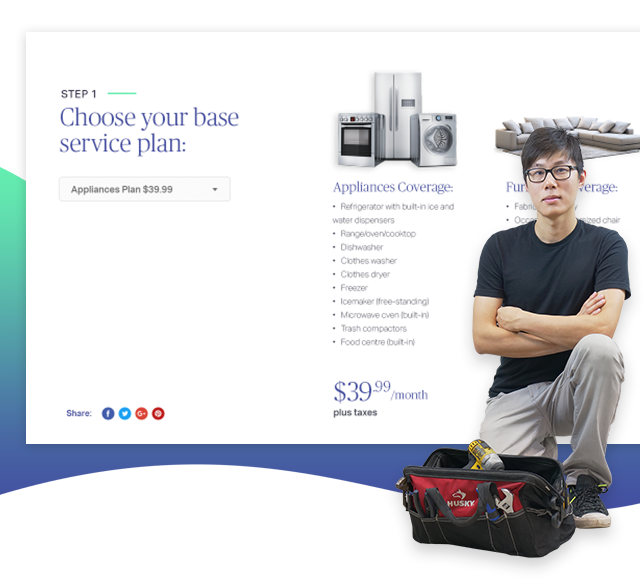
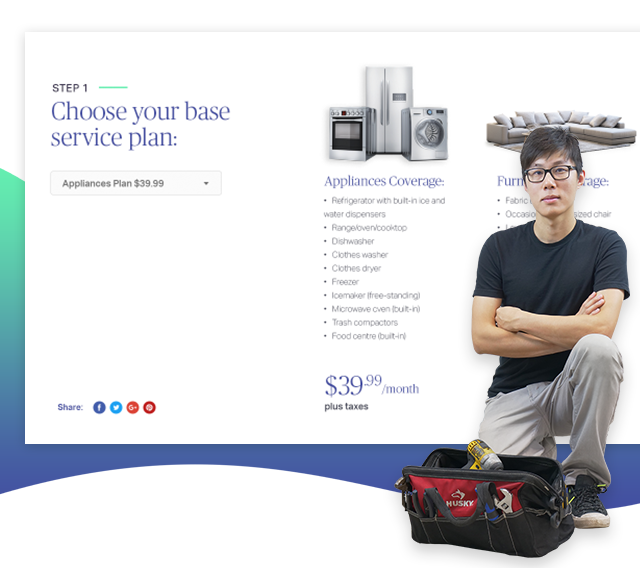
V06 - QA Service Parent Page - Updated text sizing on service parent components - Updated sizing on header - Fixed images - Fixed the crazy loader gif

diff --git a/src/components/modules/featured-content.vue b/src/components/modules/featured-content.vue
@@ -83,6 +83,14 @@ import CircleBarDecoration     from '../shared/circle-bar-decoration.vue';
     }
   }
 
+  p {
+    @media #{$laptop-up} {
+      font-size: 16px;
+      line-height: 190%;
+      font-weight: 500;
+    }
+  }
+
   // Media portion of the split
   // Before pseudo element controls the background green lines
   // They are merely decorative and get overriden often
@@ -154,7 +162,8 @@ import CircleBarDecoration     from '../shared/circle-bar-decoration.vue';
     }
 
     .mdev-service-desc {
-      width: 55%;
+      width: 45%;
+
 
       @media #{$portrait} {
         width: 100%;
@@ -164,6 +173,8 @@ import CircleBarDecoration     from '../shared/circle-bar-decoration.vue';
     .mdev-service-topics {
       width: 35%;
       margin-top: 0;
+      margin-left: 5%;
+      margin-right: 5%;
 
       @media #{$portrait} {
         width: 100%;
@@ -230,8 +241,8 @@ import CircleBarDecoration     from '../shared/circle-bar-decoration.vue';
 
       @media #{$portrait} {
         left: 10%;
-        top: -50px;
-        bottom: -50px;
+        top: -25px;
+        bottom: -25px;
         right: 10%;
       }
 

diff --git a/src/components/services/service--all.vue b/src/components/services/service--all.vue
@@ -9,7 +9,7 @@
           <div class="mdev-center">
             <h1
               data-intro-heading
-              class="u-c-primary a-blur-in">
+              class="mdev-serv-intro u-c-primary a-blur-in">
               {{ $t('servicepage.intro.heading') }}
             </h1>
             <p
@@ -209,9 +209,17 @@ export default{
     padding: 0 12%;
   }
 
-  @media #{$laptop-up} {
-    width: 60%;
+  @media #{$laptop-only} {
+    padding: 0 14%;
+  }
+
+  @media #{$desktop-up} {
+    width: 55%;
     padding: 0;
+  }
+
+  .mdev-serv-intro {
+    line-height: 120%;
   }
 }
 
@@ -227,7 +235,7 @@ export default{
   }
 
   @media #{$phone-only} {
-    padding-top: 125%;
+    padding-top: 140%;
   }
 
   @media #{$tablet-lnd-only} {
@@ -235,7 +243,7 @@ export default{
   }
 
   @media #{$tablet-prt-only} {
-    padding-top: 95%;
+    padding-top: 80%;
   }
 }
 // Line Starting Positions

diff --git a/src/assets/styles/scaffolding.scss b/src/assets/styles/scaffolding.scss
@@ -100,14 +100,14 @@
     margin-bottom: 100px;
   }
 
-  @media #{$tablet-prt-only} {
-    margin-top: 50px;
-    margin-bottom: 50px;
-  }
-
   @media #{$phone-only} {
     margin-top: 25px;
     margin-bottom: 25px;
+  }
+
+  @media #{$tablet-prt-only} {
+    margin-top: 75px;
+    margin-bottom: 75px;
   }
 }
 
@@ -396,7 +396,7 @@ $md: 75px;
     font-size: 20px;
 
     @media #{$phone-only} {
-      font-size: 10px;
+      font-size: 20px;
     }
   }
 

diff --git a/src/components/shared/base-form.vue b/src/components/shared/base-form.vue
@@ -242,7 +242,14 @@ export default{
 }
 
 textarea {
-  min-height: 10vh;
+
+  @media #{$laptop-only} {
+    min-height: 3vh;
+  }
+
+  @media #{$desktop-only} {
+    min-height: 16vh;
+  }
 
   @media #{$portrait} {
     min-height: 5vh;

diff --git a/src/assets/styles/typography.scss b/src/assets/styles/typography.scss
@@ -39,7 +39,7 @@ $h1-font-sizes: (
   null  : 2.5vw,
   $portrait : 5.3vw,
   $laptop-only : 3vw,
-  $phone-only: 23px
+  $phone-only: 26px
 );
 
 $h2-font-sizes: (
